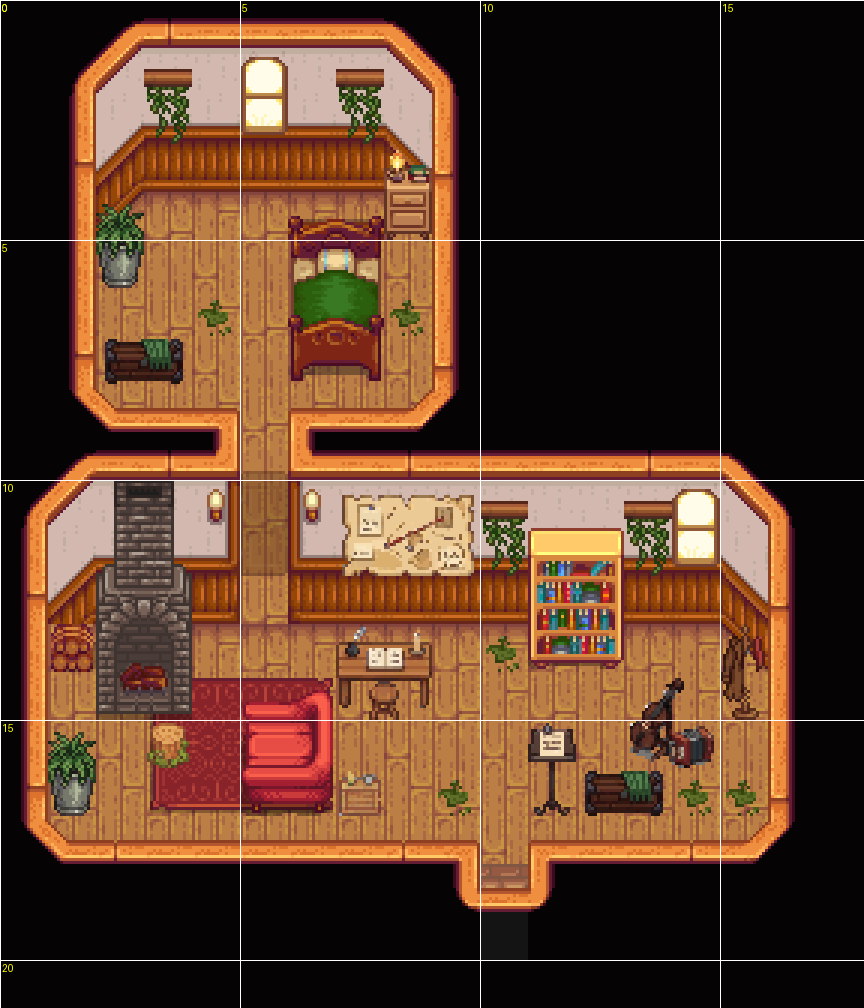
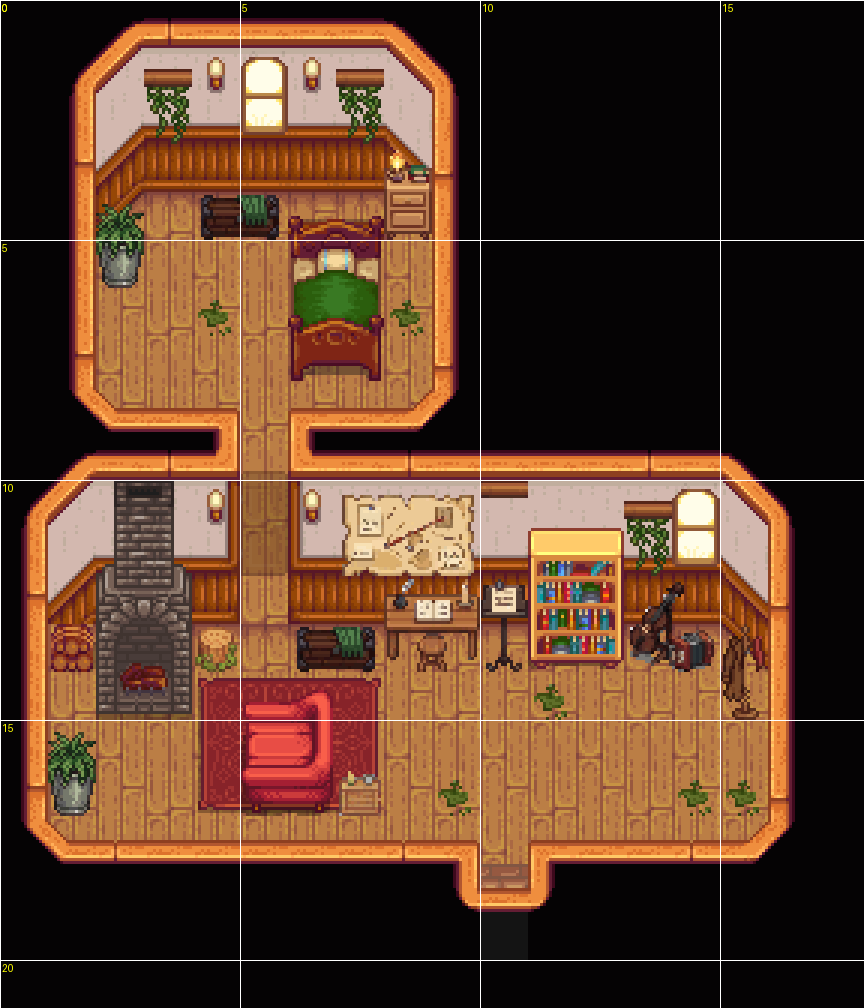
Gilded Vale Emmett's cottage: his things against the walls, the stump off the rug, the rug off the hearth, a bare beam by the bookcase, lamps by the nook's window
The user, 2026-11-07: the stump stool off the carpet and the carpet a tile
right, clear of the fireplace; the trunk near the nook's door, the desk up to
the wall a tile right, the music stand and the instruments against the wall
(the instruments under the window), moss before the bookcase, the nook's
trunk under its window; the ivy bracket by the bookcase as a bare beam (no
ivy over the bookcase); wall lamps either side of the nook's window to end
its ivy beams.

diff --git a/tools/build_vale_buildings.py b/tools/build_vale_buildings.py
@@ -48,6 +48,7 @@ VANILLA = {
     "work_table":   [{"F": [908, 909]}, {"B": [940, 941]}],                         # the clinic's plain table
     "anvil":        [{"B": [934, 935]}, {"B": [966, 967]}],                         # Clint's
     "window":       [{"F": [226]}, {"F": [258]}],                                   # on the wallpaper
+    "sconce":       [{"F": [827]}],                                                 # a wall lamp (as by the game's doors)
     # the brick fireplace (Haley's, the Saloon's), built into a back wall: x, t+1
     "fireplace":    [{"F": [667, 668]}, {"F": [699, 700]}, {"F": [731, 732]}, {"B": [763, 764]}, {"B": [795, 796]}],
     "fireplace_stone": [{"F": [669, 670]}, {"F": [701, 702]}, {"F": [733, 734]}, {"B": [765, 766]}, {"B": [797, 798]}],
@@ -117,6 +118,7 @@ ART = {
     "music_stand":   (1, 2, 1),     # sheet music, half of it crossed out
     "coat_rack":     (1, 2, 1),     # his long travel-worn coat, the red neckerchief
     "moss_wall":     (1, 2, 0),     # moss and ivy creeping down the plaster from a beam
+    "beam":          (1, 2, 0),     # and the beam alone
     "moss_patch":    (1, 1, -2),    # moss in a corner of the floorboards
     "stump_stool":   (1, 1, 1),     # a mossy tree stump for a stool
     "fern_pot":      (1, 2, 1),     # a big fern in an old bucket
@@ -154,6 +156,7 @@ GAME_PAINTINGS = {1554: (3, 2), 1547: (3, 2), 1541: (2, 2), 1557: (2, 2), 2421: 
                   1567: (1, 2), 2329: (2, 2), 2423: (2, 2), 1802: (2, 2), 1612: (2, 2), 1606: (1, 2)}
 for _id, _wh in GAME_PAINTINGS.items():
     LUPINI[f"game_{_id}"] = _id
+TOP_ALIGNED = {"beam"}               # wall pieces that keep their height (a beam at the ceiling)
 BED = (2, 4)                        # the Saloon's spare bed
 # The game's rugs that 9-slice (townInterior_2, their top-left tile): ("rug", x, y, w, h)
 RUGS = {"rug": 2761,                # Haley's red one
@@ -165,7 +168,7 @@ EMMETT_PICKS = {k: "art/gilded_vale/interiors/emmett/" + v for k, v in {
     "music_stand": "emmett_v1/music_stand_1_2", "coat_rack": "emmett_v1/coat_rack_1_0",
     "moss_wall": "emmett_v1/moss_wall_1_1", "moss_patch": "moss_patch",
     "stump_stool": "emmett_v1/stump_stool_1_0", "fern_pot": "emmett_v1/fern_pot_1_0",
-    "crate_table": "emmett_v1/crate_table_1_0"}.items()}
+    "crate_table": "emmett_v1/crate_table_1_0", "beam": "beam"}.items()}
 
 BUILDINGS = {
     # Tobin's pottery (map doc, section 5: "like the Blacksmith. The workshop and kiln at
@@ -400,25 +403,26 @@ BUILDINGS = {
         wall=103,
         picks={"chest": "art/gilded_vale/interiors/pottery/pottery_v1/chest_1_9",
                **EMMETT_PICKS},
-        lights=[(4, 15), (9, 15), (13, 15), (4, 6)],
+        lights=[(4, 15), (9, 15), (13, 15), (4, 6), (4, 1), (6, 1)],
         pieces=[
             # by the fire: logs, his armchair turned to it on a rug, a pouf for a guest
             # by the fire: logs, his armchair turned to it on a rug, a mossy stump for a guest,
             # a crate for a side table
-            ("fireplace_stone", 2, 10), ("logs", 1, 13), ("rug", 3, 14, 4, 3), ("armchair_w", 5, 14),
-            ("stump_stool", 3, 15), ("crate_table", 7, 16),
+            ("fireplace_stone", 2, 10), ("logs", 1, 13), ("rug", 4, 14, 4, 3), ("armchair_w", 5, 14),
+            ("stump_stool", 4, 13), ("crate_table", 7, 16),
             # the maps of everywhere he's been, pinned over the desk where he writes
-            ("pinned_maps", 7, 10), ("writing_desk", 7, 13),
+            ("pinned_maps", 7, 10), ("writing_desk", 8, 12),
             # his songbooks, the window, his instruments and a music stand
-            ("bookcase", 11, 11), ("window", 14, 10), ("instrument_stand", 13, 14), ("music_stand", 11, 15),
-            ("coat_rack", 15, 13), ("fern_pot", 1, 15), ("chest", 12, 16),
+            ("bookcase", 11, 11), ("window", 14, 10), ("instrument_stand", 13, 12), ("music_stand", 10, 12),
+            ("coat_rack", 15, 13), ("fern_pot", 1, 15), ("chest", 6, 13),
             # moss: creeping down the plaster, and in the corners of the floor
-            ("moss_wall", 10, 10), ("moss_wall#2", 13, 10), ("moss_patch", 10, 13), ("moss_patch#2", 15, 16),
+            ("beam", 10, 10), ("moss_wall#2", 13, 10), ("moss_patch", 11, 14), ("moss_patch#2", 15, 16),
             ("moss_patch#3", 9, 16), ("moss_patch#4", 14, 16),
             # the nook: his bed, a lantern on the nightstand, the trunk he travelled with
             # the nook, under the eaves: one small window in the middle, like the gable's outside
-            ("bed", 6, 4), ("nightstand", 8, 3), ("window", 5, 1), ("chest#2", 2, 7), ("fern_pot#2", 2, 4),
-            ("moss_wall#3", 7, 1), ("moss_wall#4", 3, 1), ("moss_patch#5", 4, 6), ("moss_patch#6", 8, 6),
+            ("bed", 6, 4), ("nightstand", 8, 3), ("window", 5, 1), ("chest#2", 4, 4), ("fern_pot#2", 2, 4),
+            # lamps either side of the window, ending the ivy beams (the user, 2026-11-07)
+            ("moss_wall#3", 7, 1), ("moss_wall#4", 3, 1), ("sconce", 4, 1), ("sconce#2", 6, 1), ("moss_patch#5", 4, 6), ("moss_patch#6", 8, 6),
         ],
         notes=["Emmett's cottage: small, one floor plan, cream plaster walls as outside. The front door opens into his room.",
                "By the stone fireplace (under the chimney outside): his armchair turned to it on a rug, a mossy stump for a guest, a crate for a side table, logs.",
@@ -734,7 +738,9 @@ def pack(picks):
     images, slots, x, y, row_h = {}, {}, 0, 0, 0
     for name, path in picks.items():
         im = Image.open(path + ".png").convert("RGBA")
-        im = im.crop(im.getbbox())
+        bb = im.getbbox()
+        # (pieces are stood on the bottom of their cells; a few hang from the top instead)
+        im = im.crop((bb[0], 0, bb[2], im.height) if name in TOP_ALIGNED else bb)
         w, h = ART[name][:2]
         cols, rows = max(w, -(-im.width // 16)), max(h, -(-im.height // 16))
         if (cols, rows) != (w, h):

diff --git a/tools/art/vale_studio_art.py b/tools/art/vale_studio_art.py
@@ -179,7 +179,20 @@ def moss_patch():
     im.save(os.path.join(INT, "emmett", "moss_patch.png"))
 
 
+def beam():
+    """Emmett's ivy bracket without its ivy: the bare beam (the user, 2026-11-07: by the
+    bookcase, where the ivy hung over it)."""
+    im = load("emmett/emmett_v1/moss_wall_1_1")
+    px = im.load()
+    for y in range(im.height):
+        for x in range(im.width):
+            r, g, b, a = px[x, y]
+            if a and g > r:
+                px[x, y] = (0, 0, 0, 0)
+    im.save(os.path.join(INT, "emmett", "beam.png"))
+
+
 if __name__ == "__main__":
-    for f in (moss_patch, dusty_window, pinned_sketches, unfinished_easel, note_table, backward_painting, cobweb, leaves):
+    for f in (beam, moss_patch, dusty_window, pinned_sketches, unfinished_easel, note_table, backward_painting, cobweb, leaves):
         f()
         print("wrote", f.__name__)
